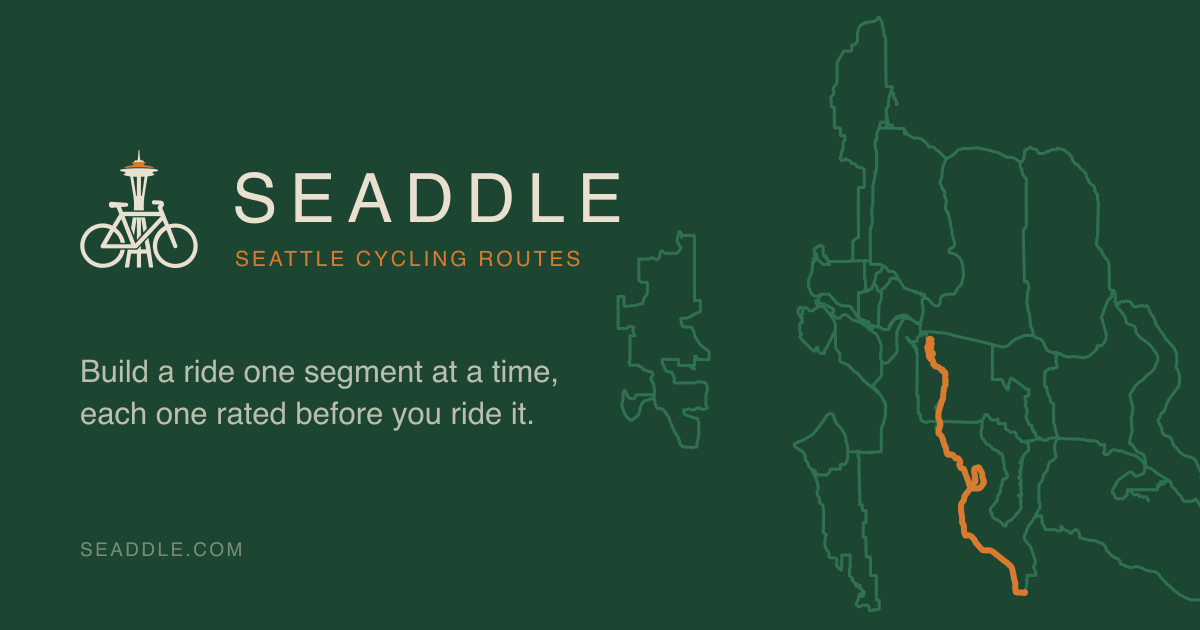
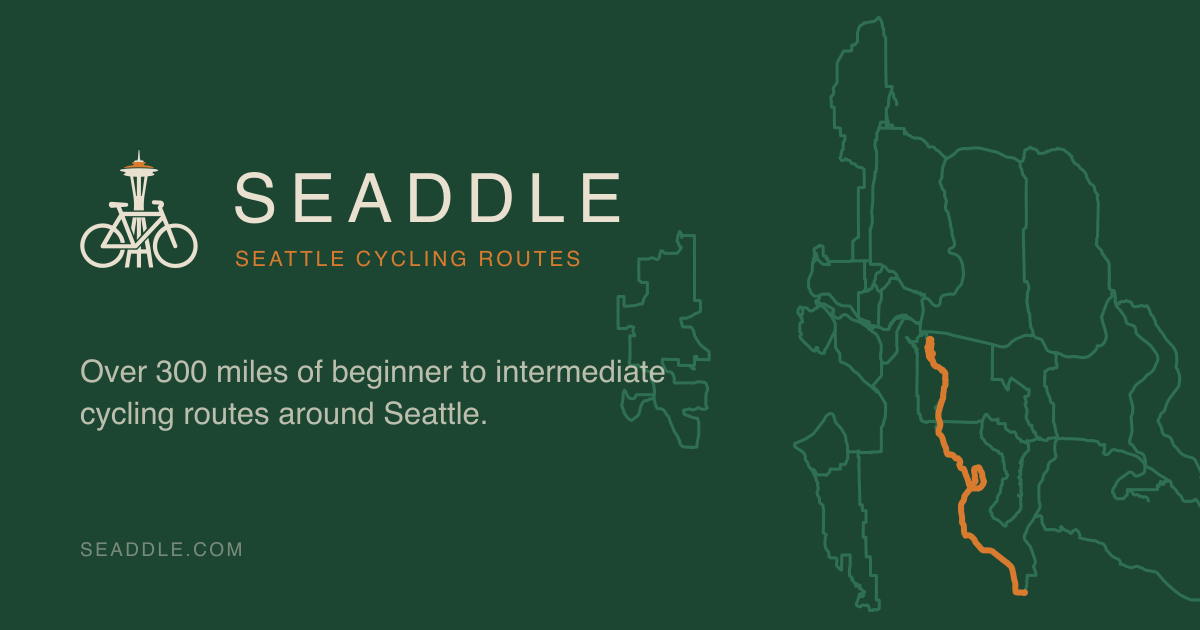
Say what the site is, rather than selling it
The card, the meta description and the crawler copy all read as marketing: a
ride built "one segment at a time", each segment "rated before you ride it",
and a page that positioned itself against "someone else's loop between two
points" before saying what it was. None of it described the thing.

All three now carry the same plain sentence: over 300 miles of beginner to
intermediate cycling routes around Seattle. On the card it breaks across two
lines, which keeps it inside the empty left panel — set on one line it runs to
within a thumb's width of the right edge and crosses the network drawing.

The crawler copy drops the positioning and the audience claim and describes the
map and what a segment carries. The second paragraph loses "what a new rider
actually wants to know before committing to it", which was the same voice.

The network is 299.9 miles, so "over 300" is ahead of the graph by about a
hundred metres until the next segment lands.

Claude-Session: https://claude.ai/code/session_016epbzNhoVfUJX8xRJFL653

Changed region(s): [[0.0617, 0.573, 0.555, 0.6937]]

diff --git a/index.html b/index.html
@@ -14,7 +14,7 @@
     <title>Seaddle — Seattle bike routes for new cyclists</title>
     <meta
       name="description"
-      content="Build a bike ride around Seattle one segment at a time — each rated for steepness, protection, and surroundings, so you know the road before you ride."
+      content="Over 300 miles of beginner to intermediate cycling routes around Seattle."
     />
     <!--
       The route a rider builds lives in the query string, so the same page is
@@ -35,7 +35,7 @@
     />
     <meta
       property="og:description"
-      content="Build a bike ride around Seattle one segment at a time — each rated for steepness, protection, and surroundings, so you know the road before you ride."
+      content="Over 300 miles of beginner to intermediate cycling routes around Seattle."
     />
     <!-- Absolute: a scraper reads this markup without a page to resolve against. -->
     <meta property="og:image" content="https://seaddle.com/og.png" />
@@ -86,17 +86,14 @@
     <noscript>
       <h1>Seaddle — Seattle bike routes for new cyclists</h1>
       <p>
-        Seaddle is a map of ridable segments around Seattle and the Eastside,
-        for people new enough to cycling that they do not yet know which roads
-        are pleasant and which will scare them off it. Rather than handing you
-        someone else's loop between two points, it lets you build a ride outward
-        from wherever you are, one segment at a time.
+        Seaddle is a map of ridable segments around Seattle and the Eastside. A
+        route is not stored but built: you pick a road, then the roads that lead
+        on from it, outward from wherever you are.
       </p>
       <p>
-        Every segment carries what a new rider actually wants to know before
-        committing to it: how steep it is, how protected from traffic, what it
-        is paved with, and what it is like to be on. Seaddle needs JavaScript to
-        draw the map.
+        Every segment carries how steep it is, how protected from traffic it is,
+        what it is paved with, and what it is like to be on. Seaddle needs
+        JavaScript to draw the map.
       </p>
     </noscript>
     <script type="module" src="/src/main.tsx"></script>

diff --git a/scripts/og-build.ts b/scripts/og-build.ts
@@ -189,8 +189,8 @@ ${structure.map((d) => `    <path fill="${SAND}" d="${d}"/>`).join("\n")}
   <text x="232" y="222" fill="${SAND}" font-family="Didact Gothic" font-size="68" letter-spacing="12.2">SEADDLE</text>
   <text x="235" y="266" fill="${BLAZE}" font-family="IBM Plex Mono" font-weight="500" font-size="21" letter-spacing="2.9">SEATTLE CYCLING ROUTES</text>
   <g fill="${SAND}" fill-opacity="0.78" font-family="Didact Gothic" font-size="31">
-    <text x="80" y="382">Build a ride one segment at a time,</text>
-    <text x="80" y="424">each one rated before you ride it.</text>
+    <text x="80" y="382">Over 300 miles of beginner to intermediate</text>
+    <text x="80" y="424">cycling routes around Seattle.</text>
   </g>
   <text x="80" y="556" fill="${SAND}" fill-opacity="0.45" font-family="IBM Plex Mono" font-weight="500" font-size="19" letter-spacing="2.4">SEADDLE.COM</text>
 </svg>
